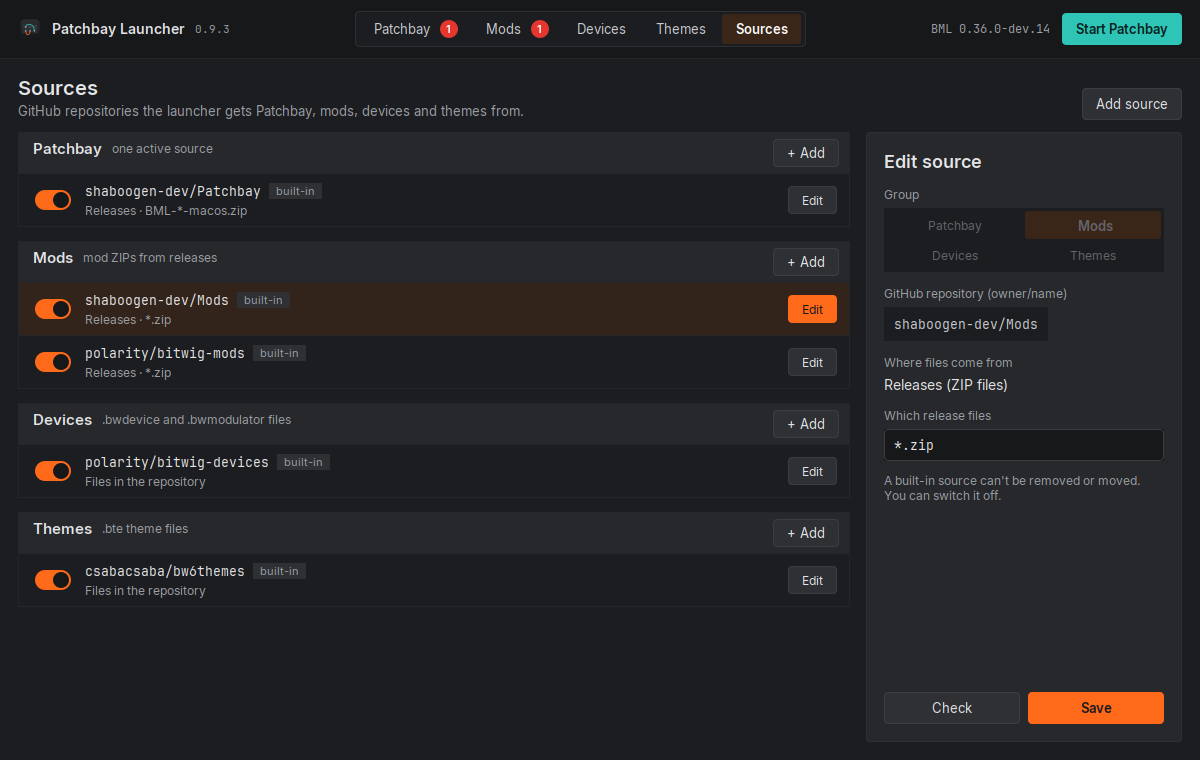
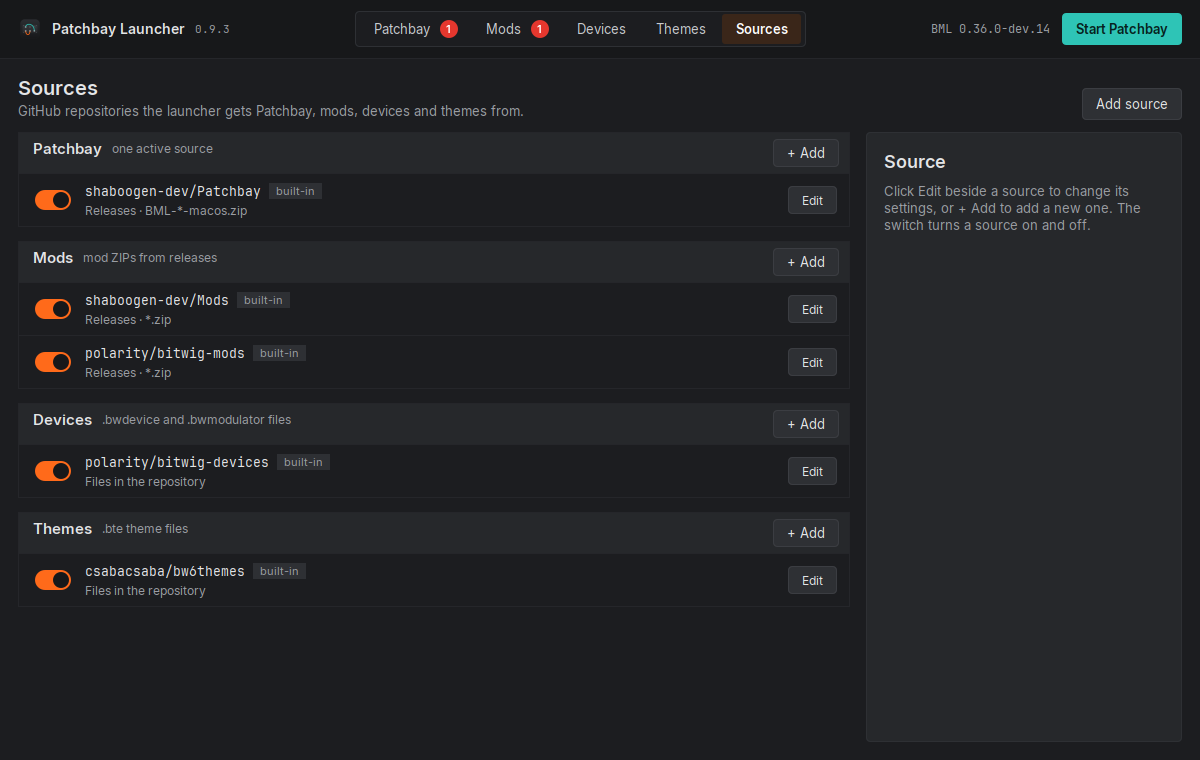
Sources: no source picked at start, the edited row marked instead of an orange Edit
Edit buttons stay grey; the row being edited gets the selected fill and
an orange edge. The form explains what to do until a source is picked.
The add warning mentions themes; result lines match the new look.

Claude-Session: https://claude.ai/code/session_01NY4XL7uJczLdFhWieRK4LM

diff --git a/src/Sources.java b/src/Sources.java
@@ -192,6 +192,8 @@ final class Sources {
         /** The source being edited, or a new one (id null). */
         private Source draft;
         private String draftGroup = MODS;
+        /** Nothing picked yet: the form only says what to do; no row is marked. */
+        private boolean idle = true;
         private final JTextField repoField = new JTextField();
         private final JTextField filterField = new JTextField();
         private final JLabel message = new JLabel();
@@ -223,8 +225,6 @@ final class Sources {
                 add, body, null, null), BorderLayout.CENTER);
             repoField.setFont(Theme.mono(13f));
             filterField.setFont(Theme.mono(13f));
-            draft = sources.stream().filter(s -> s.id().equals("mods-shaboogen")).findFirst().orElse(sources.get(0));
-            draftGroup = draft.group();
             rebuild();
         }
 
@@ -270,10 +270,13 @@ final class Sources {
         }
 
         private JComponent sourceRow(Source s) {
-            boolean selected = draft != null && s.id().equals(draft.id());
+            boolean selected = !idle && draft != null && s.id().equals(draft.id());
             JPanel row = new JPanel(new BorderLayout(12, 0));
             row.setBackground(selected ? Theme.ACCENT_SEL : Theme.WELL);
-            row.setBorder(BorderFactory.createCompoundBorder(BorderFactory.createMatteBorder(1, 0, 0, 0, Theme.HAIR), new EmptyBorder(8, 14, 8, 12)));
+            // the row being edited is marked like a selected list row: a darker fill and an orange edge on the left
+            row.setBorder(BorderFactory.createCompoundBorder(BorderFactory.createMatteBorder(1, 0, 0, 0, Theme.HAIR),
+                selected ? BorderFactory.createCompoundBorder(BorderFactory.createMatteBorder(0, 3, 0, 0, Theme.ACCENT), new EmptyBorder(8, 11, 8, 12))
+                    : new EmptyBorder(8, 14, 8, 12)));
             Theme.Switch sw = new Theme.Switch(s.enabled(),
                 (s.enabled() ? PatchbayLauncher.t("Wyłącz ", "Turn off ") : PatchbayLauncher.t("Włącz ", "Turn on ")) + s.repo(),
                 on -> toggle(s, on));
@@ -293,17 +296,27 @@ final class Sources {
             meta.setAlignmentX(LEFT_ALIGNMENT);
             text.add(meta);
             row.add(text, BorderLayout.CENTER);
-            JButton edit = Theme.button(PatchbayLauncher.t("Edytuj", "Edit"), selected ? "primary" : "secondary");
+            JButton edit = Theme.button(PatchbayLauncher.t("Edytuj", "Edit"), "secondary");
             edit.putClientProperty("small", true);
             edit.setFont(Theme.text(12f));
             edit.getAccessibleContext().setAccessibleName(PatchbayLauncher.t("Edytuj ", "Edit ") + s.repo());
-            edit.addActionListener(e -> { draft = s; draftGroup = s.group(); message.setText(""); rebuild(); });
+            edit.addActionListener(e -> { idle = false; draft = s; draftGroup = s.group(); message.setText(""); rebuild(); });
             JPanel right = new JPanel(new GridBagLayout());
             right.setOpaque(false);
             right.add(edit);
             row.add(right, BorderLayout.EAST);
             row.setMaximumSize(new Dimension(Integer.MAX_VALUE, row.getPreferredSize().height));
             return row;
+        }
+
+        /** A short result line ("Saved.", what Check found) in a framed box. */
+        private static JComponent note(String text) {
+            JLabel m = Theme.wrapped(text, 204, Theme.TEXT, 12f);
+            m.setOpaque(true);
+            m.setBackground(Theme.WELL);
+            m.setBorder(BorderFactory.createCompoundBorder(BorderFactory.createLineBorder(Theme.LINE), new EmptyBorder(8, 10, 8, 10)));
+            m.getAccessibleContext().setAccessibleDescription(text);
+            return m;
         }
 
         /** A subtitle that is a sentence keeps the text face (numbers and versions get the mono one). */
@@ -333,6 +346,7 @@ final class Sources {
         }
 
         private void startNew(String group) {
+            idle = false;
             draft = null;
             draftGroup = group;
             repoField.setText("");
@@ -343,6 +357,21 @@ final class Sources {
         }
 
         private void buildForm() {
+            if (idle) {
+                form.removeAll();
+                JPanel col = new JPanel();
+                col.setOpaque(false);
+                col.setLayout(new BoxLayout(col, BoxLayout.Y_AXIS));
+                add(col, Theme.label(PatchbayLauncher.t("Źródło", "Source"), Theme.bold(18f), Theme.TEXT), 10);
+                add(col, Theme.wrapped(PatchbayLauncher.t(
+                    "Kliknij Edytuj przy źródle, żeby zmienić jego ustawienia, albo + Dodaj, żeby dodać nowe. Przełącznikiem włączasz i wyłączasz źródło.",
+                    "Click Edit beside a source to change its settings, or + Add to add a new one. The switch turns a source on and off."), 230, Theme.MUTED, 13f), 12);
+                if (message.getText() != null && !message.getText().isEmpty()) add(col, note(message.getText()), 10);
+                form.add(col, BorderLayout.NORTH);
+                form.revalidate();
+                form.repaint();
+                return;
+            }
             form.removeAll();
             boolean isNew = draft == null;
             boolean builtin = !isNew && draft.builtin();
@@ -403,12 +432,7 @@ final class Sources {
             if (draftGroup.equals(PATCHBAY) && !builtin) add(col, Theme.wrapped(PatchbayLauncher.t("Patchbay pobierany jest z jednego źródła naraz. Włączenie tego wyłączy pozostałe.",
                 "Patchbay comes from one source at a time. Switching this one on switches the others off."), 214, Theme.MUTED, 12f), 10);
             if (message.getText() != null && !message.getText().isEmpty()) {
-                JLabel m = Theme.wrapped(message.getText(), 204, new Color(0xBFEFEA), 12f);
-                m.setOpaque(true);
-                m.setBackground(Theme.ACCENT_SEL);
-                m.setBorder(new EmptyBorder(8, 10, 8, 10));
-                m.getAccessibleContext().setAccessibleDescription(message.getText());
-                add(col, m, 10);
+                add(col, note(message.getText()), 10);
             }
             form.add(col, BorderLayout.NORTH);
 
@@ -479,8 +503,8 @@ final class Sources {
             boolean isNew = draft == null;
             if (isNew) {
                 int ok = JOptionPane.showConfirmDialog(this,
-                    PatchbayLauncher.t("Mody i urządzenia to kod uruchamiany wewnątrz Bitwiga. Dodawaj tylko repozytoria, którym ufasz.\n\nDodać ",
-                        "Mods and devices are code that runs inside Bitwig. Only add repositories you trust.\n\nAdd ") + s.repo() + "?",
+                    PatchbayLauncher.t("Mody i urządzenia to kod uruchamiany wewnątrz Bitwiga, a motywy zmieniają jego wygląd. Dodawaj tylko repozytoria, którym ufasz.\n\nDodać ",
+                        "Mods and devices are code that runs inside Bitwig, and themes change how it looks. Only add repositories you trust.\n\nAdd ") + s.repo() + "?",
                     "Patchbay Launcher", JOptionPane.OK_CANCEL_OPTION, JOptionPane.WARNING_MESSAGE);
                 if (ok != JOptionPane.OK_OPTION) return;
             }
@@ -505,8 +529,8 @@ final class Sources {
             next.removeIf(x -> x.id().equals(gone.id()));
             if (gone.group().equals(PATCHBAY) && gone.enabled())
                 next.replaceAll(x -> x.id().equals("patchbay") ? x.withEnabled(true) : x);
-            draft = next.get(0);
-            draftGroup = draft.group();
+            idle = true;
+            draft = null;
             message.setText(PatchbayLauncher.t("Usunięto ", "Removed ") + gone.repo() + ".");
             commit(next);
         }

diff --git a/src/I18n.java b/src/I18n.java
@@ -274,7 +274,9 @@ final class I18n {
         add("Remove source", "Quelle entfernen", "Supprimer la source");
         add("Type the repository as owner/name, for example polarity/bitwig-mods.", "Gib das Repository als Besitzer/Name ein, zum Beispiel polarity/bitwig-mods.", "Saisissez le dépôt sous la forme propriétaire/nom, par exemple polarity/bitwig-mods.");
         add("Checking…", "Wird geprüft…", "Vérification…");
-        add("Mods and devices are code that runs inside Bitwig. Only add repositories you trust.\n\nAdd ", "Mods und Geräte sind Code, der in Bitwig läuft. Füge nur Repositories hinzu, denen du vertraust.\n\nHinzufügen: ", "Les mods et les périphériques sont du code exécuté dans Bitwig. N'ajoutez que des dépôts de confiance.\n\nAjouter ");
+        add("Mods and devices are code that runs inside Bitwig, and themes change how it looks. Only add repositories you trust.\n\nAdd ",
+            "Mods und Geräte sind Code, der in Bitwig läuft, und Themes ändern sein Aussehen. Füge nur Repositories hinzu, denen du vertraust.\n\nHinzufügen: ",
+            "Les mods et les périphériques sont du code exécuté dans Bitwig, et les thèmes changent son apparence. N'ajoutez que des dépôts de confiance.\n\nAjouter ");
         add("Added.", "Hinzugefügt.", "Ajoutée.");
         add("Saved.", "Gespeichert.", "Enregistrée.");
         add("Removed ", "Entfernt: ", "Supprimée : ");
@@ -356,6 +358,9 @@ final class I18n {
         add("Updates: ", "Updates: ", "Mises à jour : ");
         add("Sections", "Bereiche", "Sections");
         add("Version", "Version", "Version");
+        add("Click Edit beside a source to change its settings, or + Add to add a new one. The switch turns a source on and off.",
+            "Klicke bei einer Quelle auf Bearbeiten, um ihre Einstellungen zu ändern, oder auf + Hinzufügen für eine neue. Der Schalter schaltet eine Quelle ein und aus.",
+            "Cliquez sur Modifier à côté d'une source pour changer ses réglages, ou sur + Ajouter pour en ajouter une. L'interrupteur active ou désactive une source.");
         add("Mods and themes move to the new version.", "Mods und Themes werden in die neue Version übernommen.", "Les mods et les thèmes passent à la nouvelle version.");
     }
 
